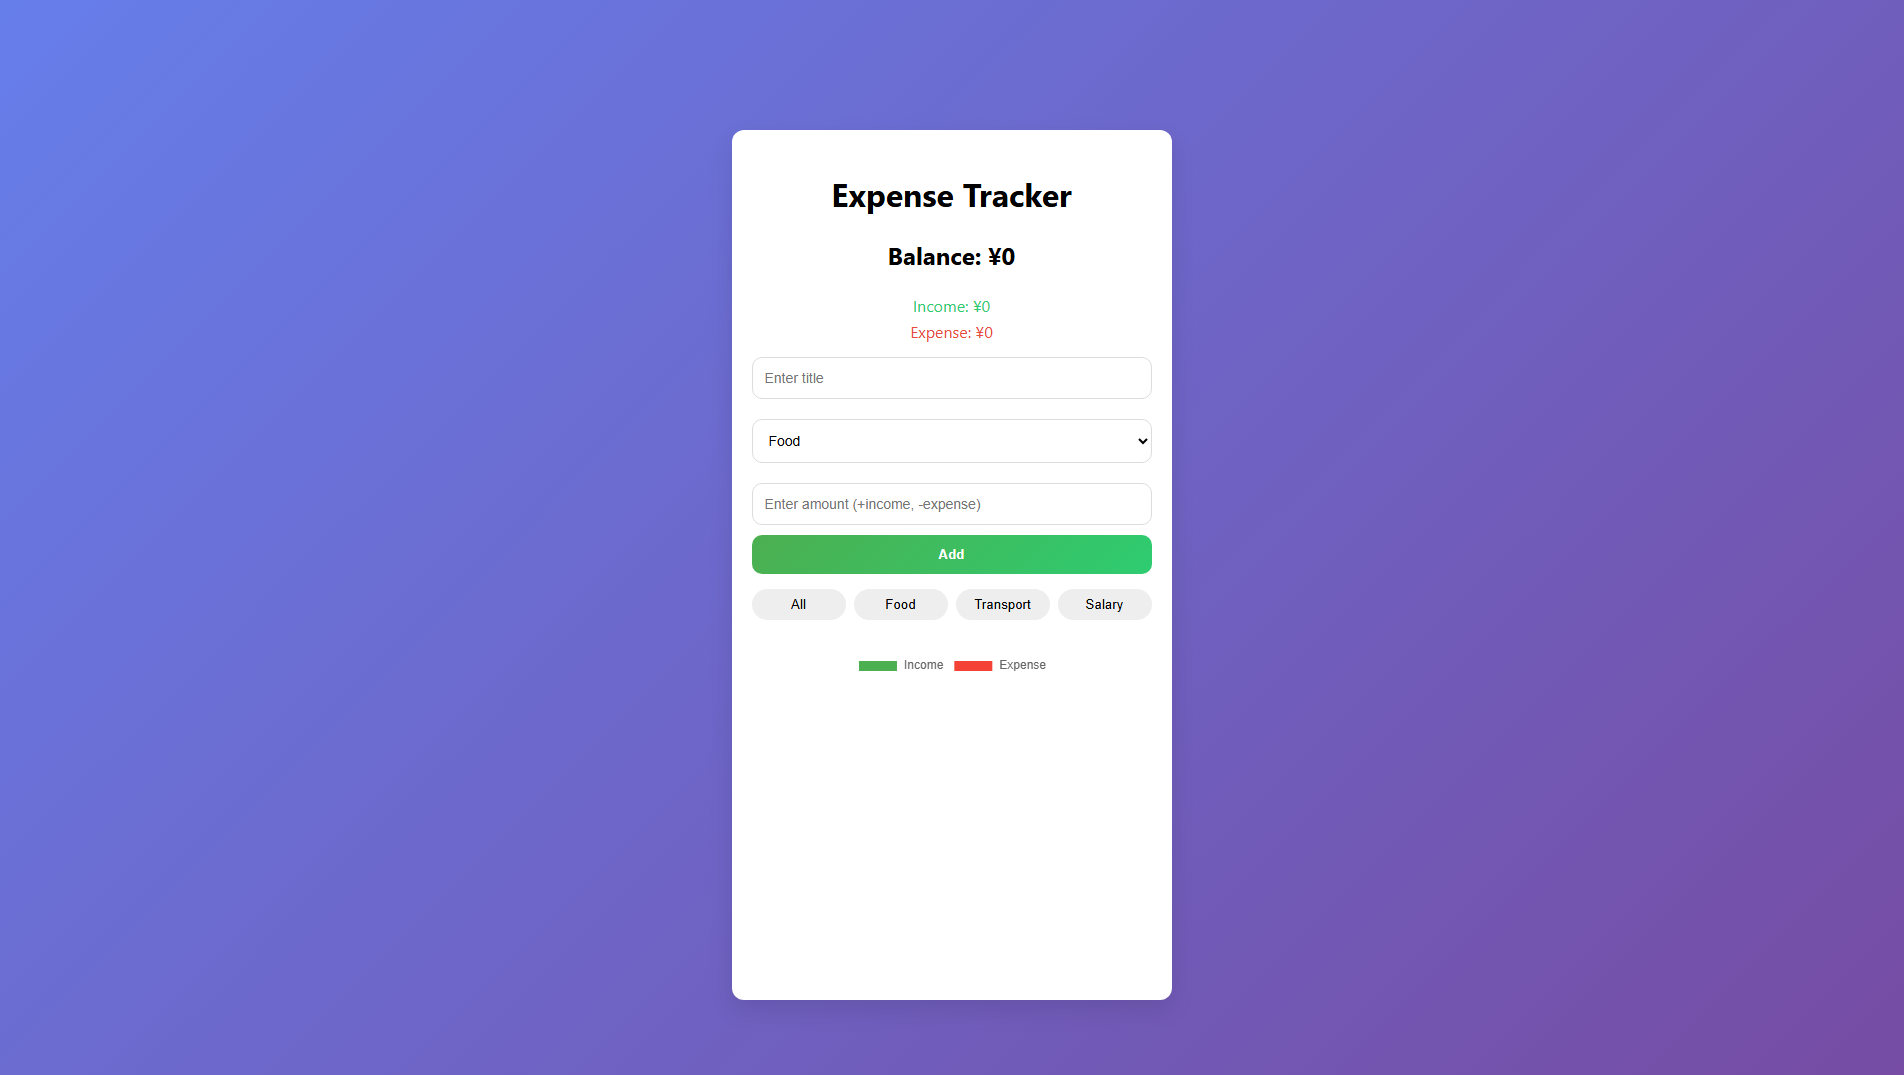
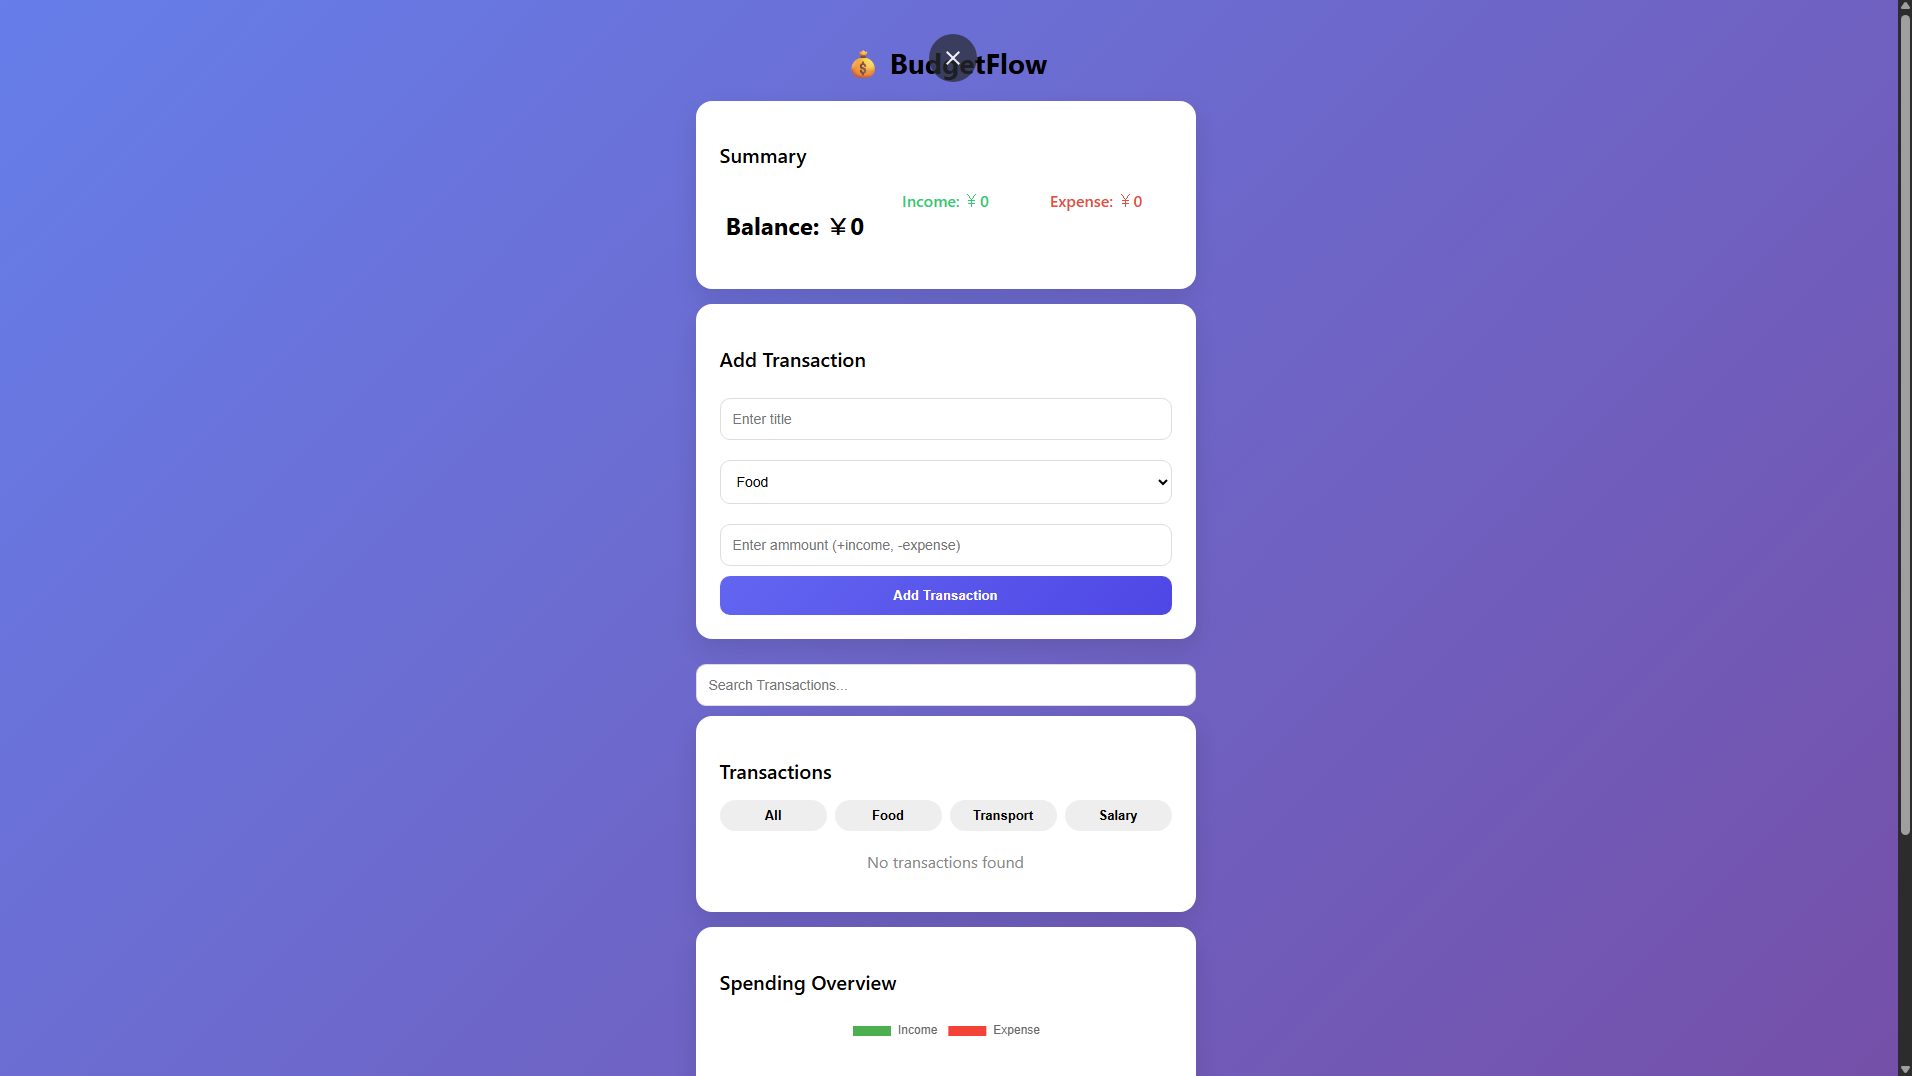
Update expense tracker: improved UI and fixed edit modal

Changed region(s): [[0.3409, 0.0307, 0.6507, 1.0], [0.9916, 0.0, 1.0, 1.0]]

diff --git a/script.js b/script.js
@@ -16,11 +16,13 @@ const modal = document.getElementById("modal");
 const editTitle = document.getElementById("edit-title");
 const editAmount = document.getElementById("edit-amount");
 const editCategory = document.getElementById("edit-category");
+const saveEditBtn = document.getElementById("save-edit");
+const cancelEditBtn = document.getElementById("cancel-edit");
 
 let transactions = [];
 let currentFilter = "all";
 let chart;
-let editing = null;
+let editingId = null;
 
 function saveToLocalStorage() {
     localStorage.setItem("transactions", JSON.stringify(transactions));
@@ -31,6 +33,7 @@ const saved = localStorage.getItem("transactions");
 if (saved) {
     transactions = JSON.parse(saved);
     renderTransactions(transactions);
+    applyFilter();
     updateValues();
     renderChart();
 }
@@ -40,9 +43,9 @@ addBtn.addEventListener("click", function () {
     const amount = Number(amountInput.value.trim());
     const category = categoryInput.value;
 
-    if (!title || !amount) {
-        alert("Please enter a valid title and amount");
-        return;
+    if (!title || Number.isNaN(amount) || amount === 0) {
+    alert("Please enter a valid title and amount (non-zero)");
+    return;
     }
 
     const transaction = {
@@ -55,10 +58,8 @@ addBtn.addEventListener("click", function () {
     transactions.push(transaction);
 
     applyFilter();
-
     updateValues();
     renderChart();
-
     saveToLocalStorage();
 
     titleInput.value = "";
@@ -79,17 +80,14 @@ searchInput.addEventListener("input", applyFilter);
 
 function addTransactionToList(transaction) {
     const li = document.createElement("li");
-
     li.classList.add(transaction.amount > 0 ? "income" : "expense");
+    li.dataset.id = transaction.id;
     
 
     li.innerHTML = `
         <span class ="text">
             ${transaction.title} (${transaction.category}):
-            ${new Intl.NumberFormat("ja-JP", { 
-                style: "currency",
-                currency: "JPY"
-            }).format(transaction.amount)}
+            ${formatYen(transaction.amount)}
         </span>
         <div>    
             <button class="edit-btn">Edit</button>
@@ -97,7 +95,6 @@ function addTransactionToList(transaction) {
         </div>            
     `;
 
-    li.dataset.id = transaction.id;
     list.appendChild(li);
 
     li.querySelector(".delete-btn").addEventListener("click", () => {
@@ -110,38 +107,52 @@ function addTransactionToList(transaction) {
 }
 
 modal.addEventListener("click", (e) => {
-    if (e.target === modal) {
-        modal.classList.add("hidden");
-    }
+    if (e.target === modal) closeModal();
+       
 });
 
 document.addEventListener("keydown", (e) => {
-    if (e.key === "Escape") {
-        modal.classList.add("hidden");
-    }
+    if (e.key === "Escape") closeModal();
 });
 
 saveEditBtn.addEventListener("click", () => {
     const transaction = transactions.find(t => t.id === editingId);
+    if (!transaction) return;
 
-    transaction.title = editTitle.value;
-    transaction.amount = Number(editAmount.value);
-    transaction.category = editCategory.value;
+    const title = editTitle.value.trim();
+    const amount = Number(editAmount.value.trim());
+    const category = editCategory.value;
+
+    if (!title || Number.isNaN(amount) || amount === 0) {
+        alert("Please enter a valid title and amount (non-zero)");
+        return;
+    }
+
+    transaction.title = title;
+    transaction.amount = amount;
+    transaction.category = category;
 
     applyFilter();
     updateValues();
     renderChart();
     saveToLocalStorage();
 
-    modal.classList.remove("show");
+    closeModal();
+});
 
+cancelEditBtn.addEventListener("click", closeModal);
+
+function closeModal() {
+    modal.classList.remove("show");
     setTimeout(() => {
         modal.classList.add("hidden");
+        editingId = null;
     }, 200);
-});
+}
 
 function editTransaction(id) {
     const transaction = transactions.find(t => t.id === id);
+    if (!transaction) return;
 
     editingId = id;
 
@@ -159,31 +170,20 @@ function updateValues() {
     const income = amounts.filter(a => a > 0).reduce((acc, item) => acc + item, 0);
     const expense = amounts.filter(a => a < 0).reduce((acc, item) => acc + item, 0);
 
-    balanceEl.textContent = `Balance: ${new Intl.NumberFormat("ja-JP", {
-        style: "currency",
-        currency: "JPY"
-    }).format(total)}`;
-
-    incomeEl.textContent = `Income: ${new Intl.NumberFormat("ja-JP", {
-        style: "currency",
-        currency: "JPY"
-    }).format(income)}`;
-
-    expenseEl.textContent = `Expense: ${new Intl.NumberFormat("ja-JP", {
-        style: "currency",
-        currency: "JPY"
-    }).format(Math.abs(expense))}`;
+    balanceEl.textContent = `Balance: ${formatYen(total)}`;
+    incomeEl.textContent = `Income: ${formatYen(income)}`;
+    expenseEl.textContent = `Expense: ${formatYen(Math.abs(expense))}`;
 }
 
 function deleteTransaction(id) {
     const li = document.querySelector(`li[data-id="${id}"]`);
+    if (!li) return;
 
     li.style.opacity = "0";
     li.style.transform = "translateX(50px)";
 
     setTimeout(() => {
         transactions = transactions.filter(t => t.id !== id);
-
         applyFilter();
         updateValues();
         renderChart();
@@ -194,7 +194,6 @@ function deleteTransaction(id) {
 
 function renderTransactions(data) {
     list.innerHTML = "";
-
     if (data.length === 0) {
         list.innerHTML = `<p class="empty">No transactions found</p>`;
         return;
@@ -210,9 +209,7 @@ function applyFilter() {
 
     const searchTerm = searchInput.value.toLowerCase();
 
-    filtered = filtered.filter(t =>
-        t.title.toLowerCase().includes(searchTerm)
-    );
+    filtered = filtered.filter(t => t.title.toLowerCase().includes(searchTerm));
 
     renderTransactions(filtered);
 }
@@ -235,7 +232,6 @@ function renderChart() {
     }
 
     const ctx = document.getElementById("myChart").getContext("2d");
-
     chart = new Chart(ctx, {
         type: "doughnut",
         data: {

diff --git a/index.html b/index.html
@@ -71,7 +71,7 @@
                 <option value="food">Food</option>
                 <option value="transport">Transport</option>
                 <option value="salary">Salary</option>
-                <option value="othe">Other</option>
+                <option value="other">Other</option>
             </select>
 
             <div class="modal-actions">

diff --git a/style.css b/style.css
@@ -256,7 +256,7 @@ button:hover {
     justify-content: center;
     align-items: center;
 
-    background: rgba(0, 0, 0, 0,5);
+    background: rgba(0, 0, 0, 0.5);
 
     opacity: 0;
     pointer-events: none;
